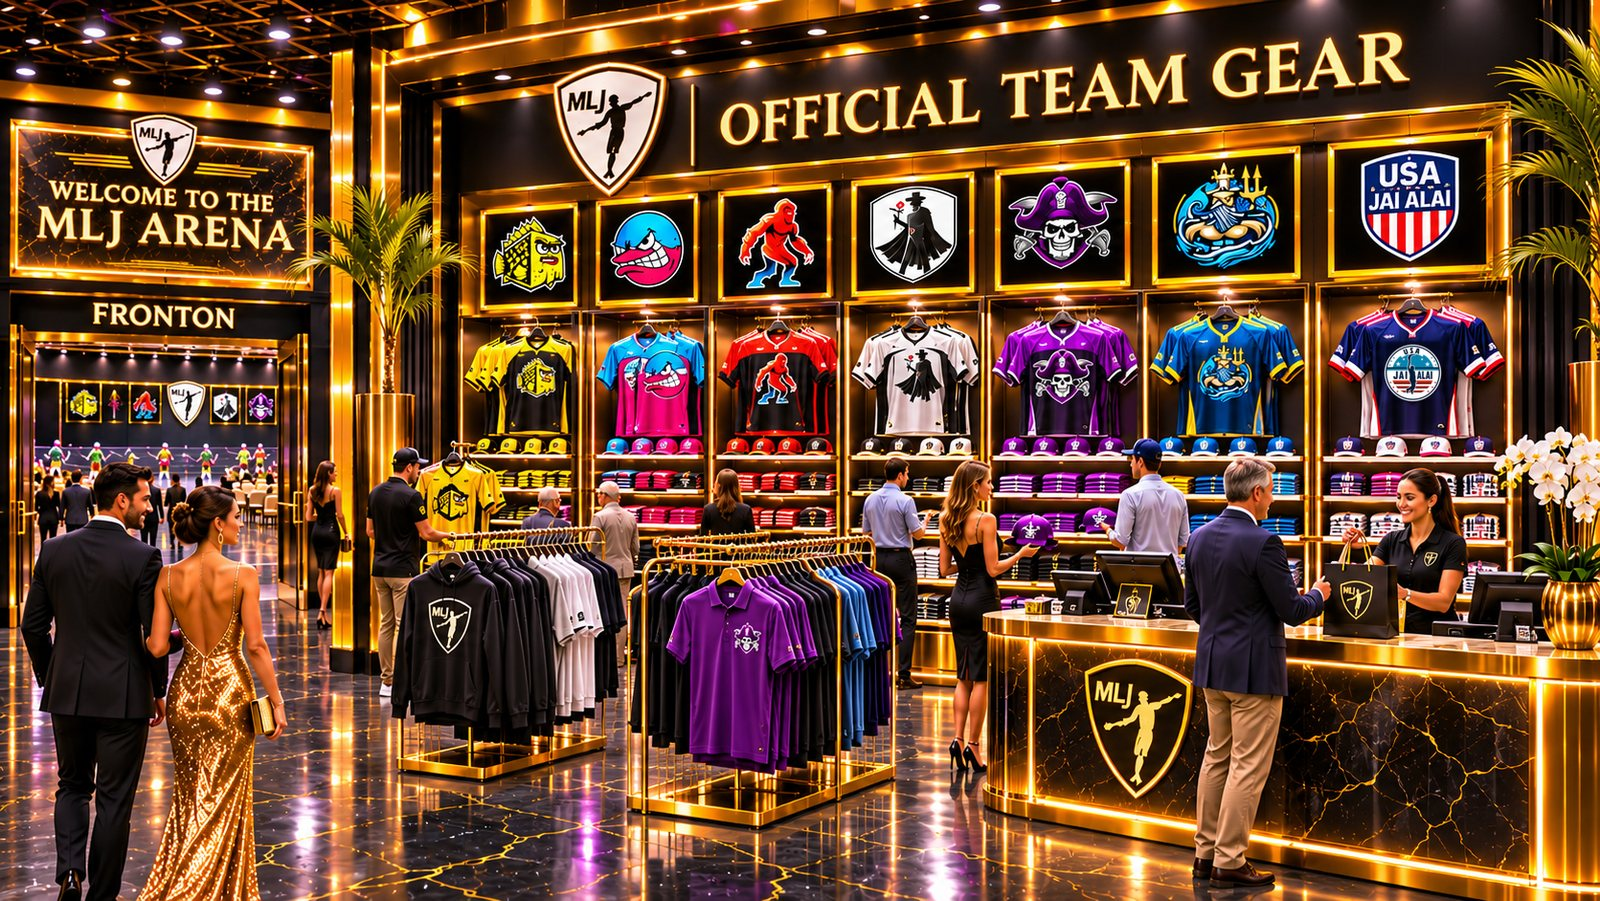
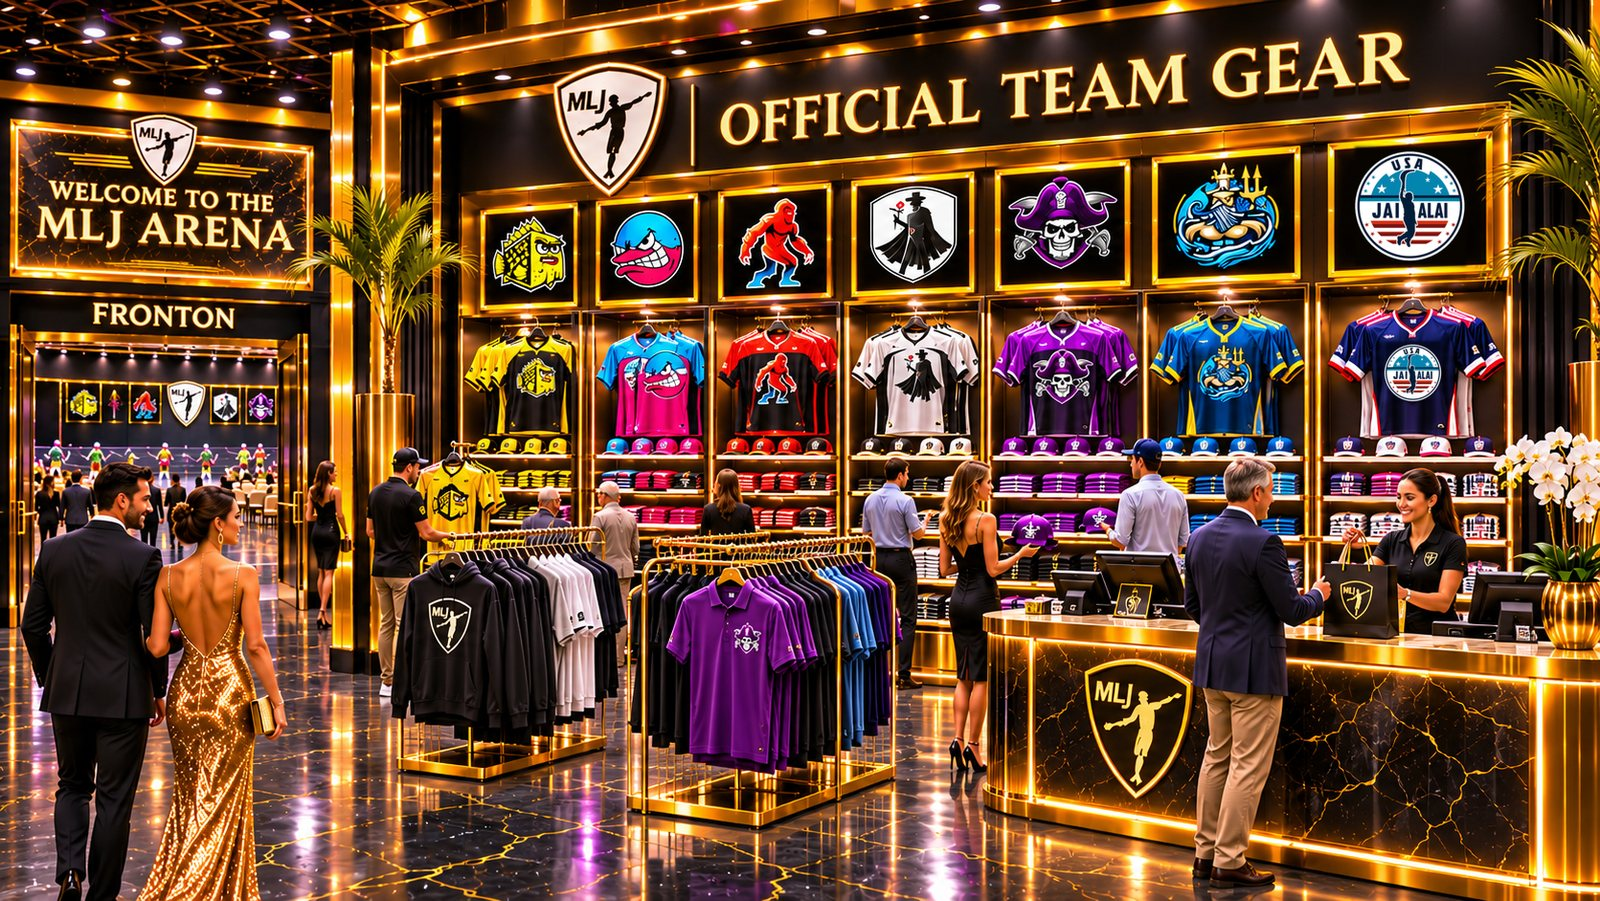
Arena gallery: Team USA crest in the merch store frame as well
Claude-Session: https://claude.ai/code/session_01RXYkimbn35SjoihCfai7fS

Changed region(s): [[0.8438, 0.1554, 0.9375, 0.3108]]

diff --git a/arena.html b/arena.html
@@ -443,8 +443,8 @@ document.getElementById('tourBtn').onclick=startTour; document.getElementById('t
 (function(){ var PH=[["The MLJ Arena on the Intracoastal", "doll"], ["Valet arrival under the porte-cochère", "valet"], ["Welcome to the MLJ Arena", "entry"], ["Food court and The Cesta Bar", "food"], ["Official team gear at the merch store", "merch"], ["The exotic goldfish bar", "goldfish"], ["Exotic goldfish under your cocktail", "goldfish"], ["The shark tank bar", "sharks"], ["A shark under your cocktail", "sharks"], ["Team banners on the side wall", "seats"], ["Fans in team gear in the stadium seats", "seats"], ["VIP couches, courtside", "vip"], ["The best seat in the house", "vip"], ["Bottle service in the VIP", "vip"], ["The VIP section and the stands", "vip"], ["Match night on the court", "court"], ["Full stretch for the pelota", "court"], ["The Peloteros and the Squared Groupers", "court"]], SPOTPIC={entry:2,doors:2,food:3,merch:4,goldfish:5,sharks:7,seats:10,vip:11,court:15,valet:1,vpark:1,lot:0,marina:0},
   gal=document.getElementById('gal'), grid=document.getElementById('galGrid'), big=document.getElementById('galBig'), img=document.getElementById('galImg'), cap=document.getElementById('galCap'), chip=document.getElementById('spotPic'), cur=0, built=false;
   function n2(i){ return (i<9?'0':'')+(i+1); }
-  function show(i){ cur=(i+PH.length)%PH.length; img.src='arena-photo-'+n2(cur)+'.jpg?v=5'; img.alt=PH[cur][0]; cap.textContent=(cur+1)+' / '+PH.length+'  ·  '+PH[cur][0]; big.hidden=false; }
-  function build(){ if(built) return; built=true; PH.forEach(function(c,i){ var f=document.createElement('figure'), im=document.createElement('img'), fc=document.createElement('figcaption'); im.loading='lazy'; im.src='arena-thumb-'+n2(i)+'.jpg?v=5'; im.alt=c[0]; fc.textContent=c[0]; f.appendChild(im); f.appendChild(fc); f.onclick=function(){ show(i); }; grid.appendChild(f); }); }
+  function show(i){ cur=(i+PH.length)%PH.length; img.src='arena-photo-'+n2(cur)+'.jpg?v=6'; img.alt=PH[cur][0]; cap.textContent=(cur+1)+' / '+PH.length+'  ·  '+PH[cur][0]; big.hidden=false; }
+  function build(){ if(built) return; built=true; PH.forEach(function(c,i){ var f=document.createElement('figure'), im=document.createElement('img'), fc=document.createElement('figcaption'); im.loading='lazy'; im.src='arena-thumb-'+n2(i)+'.jpg?v=6'; im.alt=c[0]; fc.textContent=c[0]; f.appendChild(im); f.appendChild(fc); f.onclick=function(){ show(i); }; grid.appendChild(f); }); }
   document.getElementById('galBtn').onclick=function(){ build(); gal.hidden=false; gal.scrollTop=0; };
   document.getElementById('galX').onclick=function(){ gal.hidden=true; }; document.getElementById('galBack').onclick=function(){ big.hidden=true; };
   document.getElementById('galPrev').onclick=function(){ show(cur-1); }; document.getElementById('galNext').onclick=function(){ show(cur+1); };
@@ -452,7 +452,7 @@ document.getElementById('tourBtn').onclick=startTour; document.getElementById('t
   var sx=null; big.addEventListener('touchstart',function(e){ sx=e.touches[0].clientX; },{passive:true}); big.addEventListener('touchend',function(e){ if(sx===null) return; var d=e.changedTouches[0].clientX-sx; sx=null; if(Math.abs(d)>50) show(cur+(d<0?1:-1)); });
   addEventListener('keydown',function(e){ if(big.hidden) return; if(e.key==='ArrowRight') show(cur+1); else if(e.key==='ArrowLeft') show(cur-1); else if(e.key==='Escape') big.hidden=true; });
   /* each Go-to stop is paired with its photo: a small card that opens the picture */
-  var chipI=0; window.spotPhoto=function(k){ var i=k==null?undefined:SPOTPIC[k]; if(i===undefined){ chip.hidden=true; return; } chipI=i; document.getElementById('spotImg').src='arena-thumb-'+n2(i)+'.jpg?v=5'; document.getElementById('spotCap').textContent=PH[i][0]; chip.hidden=false; };
+  var chipI=0; window.spotPhoto=function(k){ var i=k==null?undefined:SPOTPIC[k]; if(i===undefined){ chip.hidden=true; return; } chipI=i; document.getElementById('spotImg').src='arena-thumb-'+n2(i)+'.jpg?v=6'; document.getElementById('spotCap').textContent=PH[i][0]; chip.hidden=false; };
   document.getElementById('spotOpen').onclick=function(){ show(chipI); }; document.getElementById('spotX').onclick=function(e){ e.stopPropagation(); chip.hidden=true; }; })();
 function goSpot(k){ var s=SPOTS[k]; if(!s) return; pos.x=s[0]; pos.z=s[1]; yaw=s[2]; pitch=-0.05; setMode('walk'); spotPhoto(k); }
 started=true;
